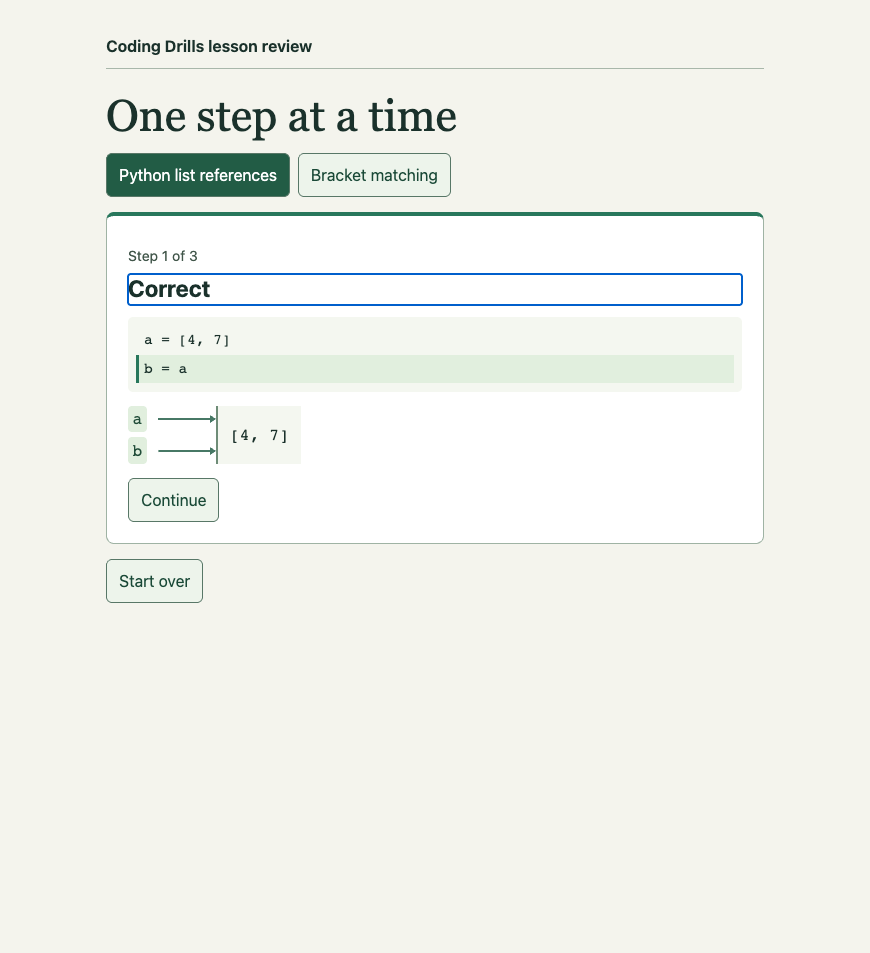
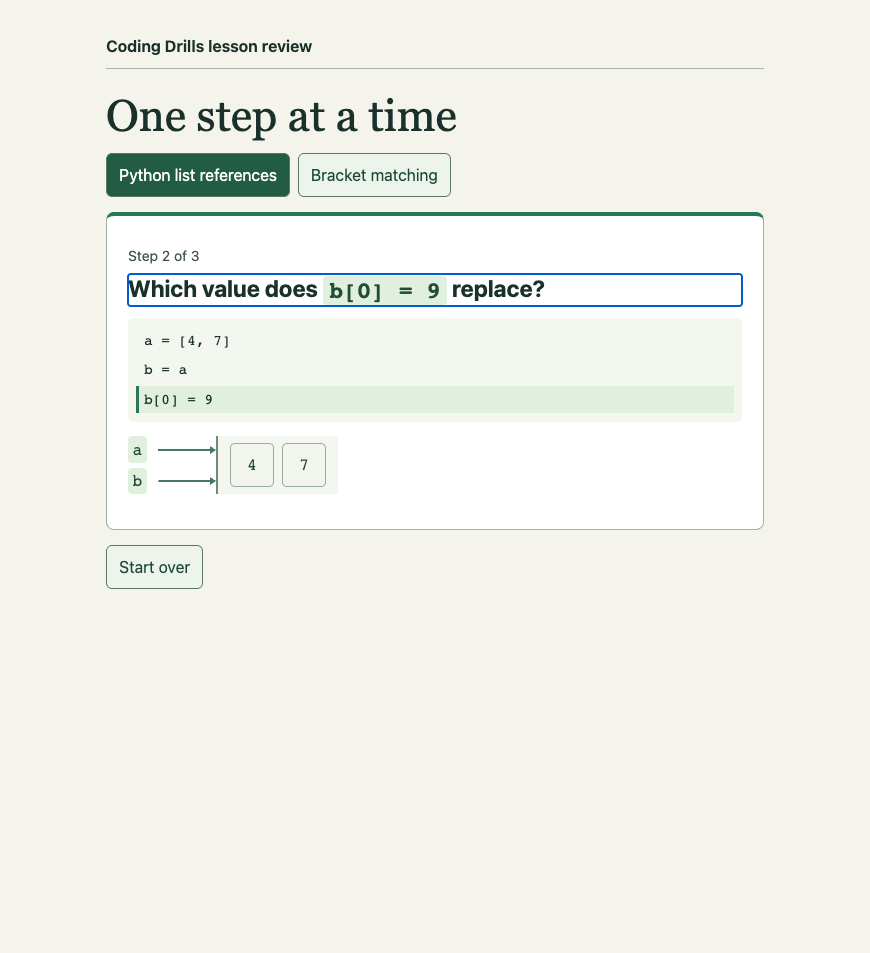
fix: advance directly to list mutation after aliasing

Changed region(s): [[0.1241, 0.3652, 0.8379, 0.639], [0.1552, 0.2434, 0.6207, 0.3347], [0.2793, 0.4565, 0.3414, 0.4869]]

diff --git a/docs/prototypes/learning-harness/guided-scenarios.html b/docs/prototypes/learning-harness/guided-scenarios.html
@@ -150,7 +150,7 @@ function answerChoices(options){
 const listCode=["a = [4, 7]", "b = a", "b[0] = 9", "b = [6, 8]"];
 function lists(){
  const headings=["After `b = a`, what does `b` refer to?","Which value does `b[0] = 9` replace?","Which name should point to the new list?"];
- const summaries=["Correct","The first cell changed to 9.","Correct"];
+ const summaries={1:"The first cell changed to 9.",2:"Correct"};
  if(step===3){
   const h=prompt(completed?"`x[0]` is 1":"What does the new example print?");
   code(["x = [1, 2]", "y = x", "y = [3, 4]", "y[0] = 6", "print(x[0])"]);
@@ -166,9 +166,9 @@ function lists(){
  }
  const h=prompt(completed?summaries[step]:headings[step]);
  code(listCode.slice(0,step+2),step+1);
- if(step===0&&!completed){
+ if(step===0){
   answerChoices([
-   ["The same list as `a`",()=>coach(true)],
+   ["The same list as `a`",advance],
    ["A separate copy of list `a`",()=>coach(false,"`b = a` assigns the same list to `b`. Creating a copy would take a separate operation.")]
   ]);
   return h;
@@ -178,7 +178,7 @@ function lists(){
  const names=applied===3?["a"]:["a","b"];
  const values=applied<2?["4","7"]:["9","7"];
  listItem(board,names,values,{
-  newReference:step===0&&completed?"b":undefined,
+  newReference:step===1&&!completed?"b":undefined,
   onSlot:step===1&&!completed?index=>coach(index===0,index===0
    ?"`b[0]` changes the existing list. `a` reads the same 9."
    :"The number in brackets selects an index. Index 0 is the first cell."):null
